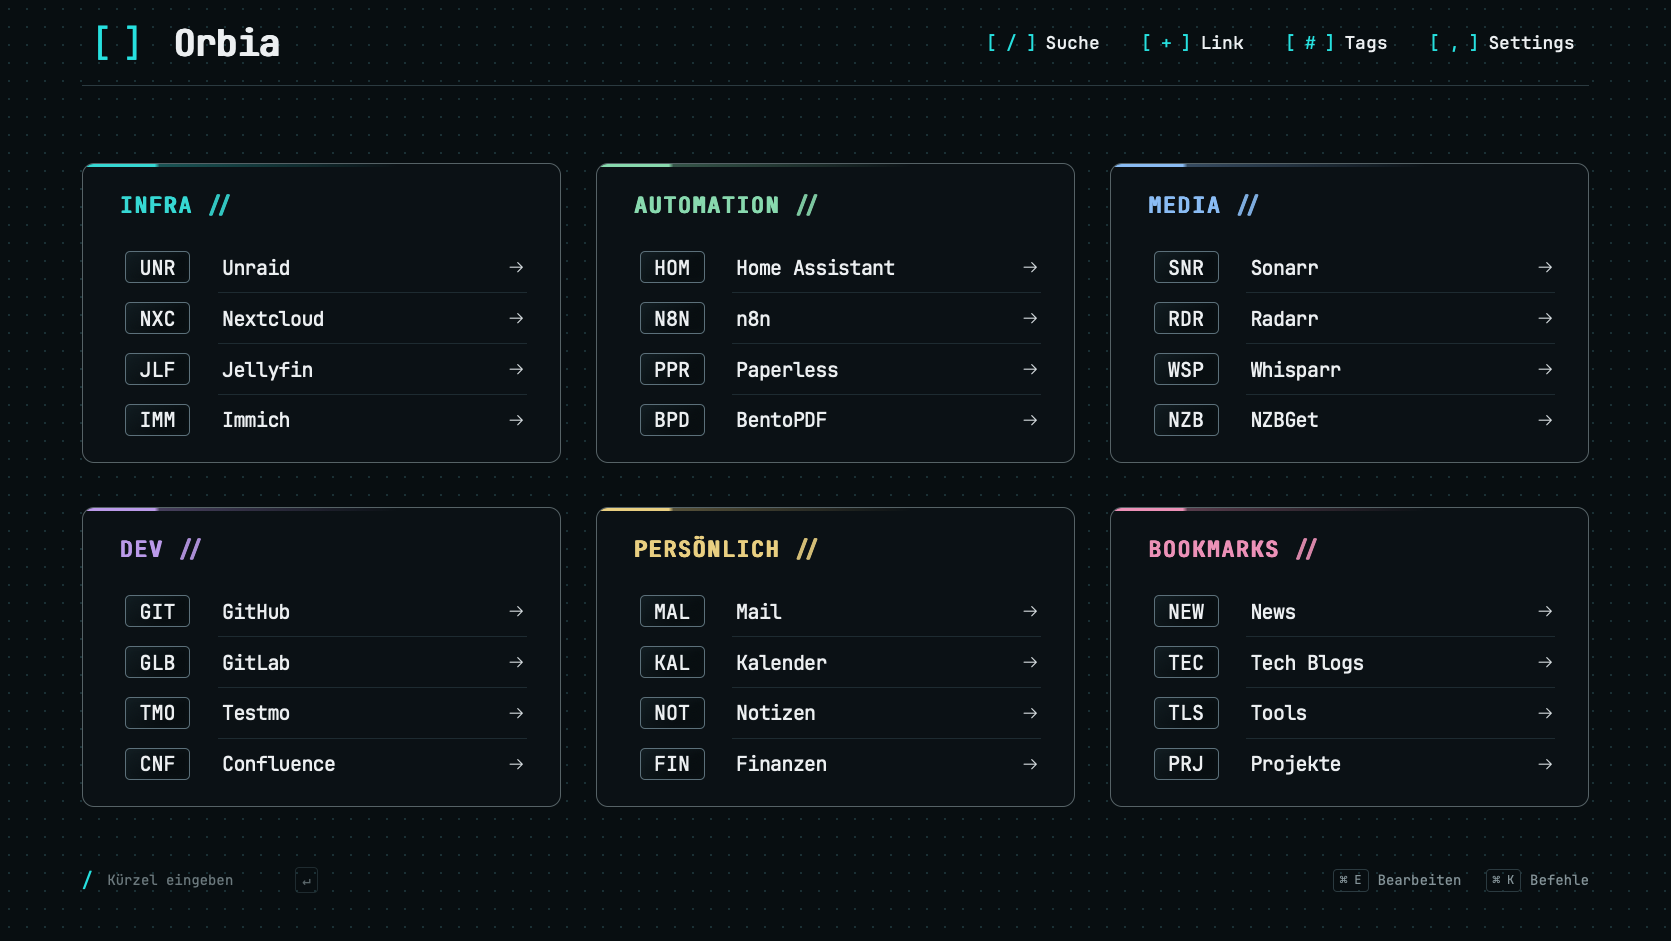
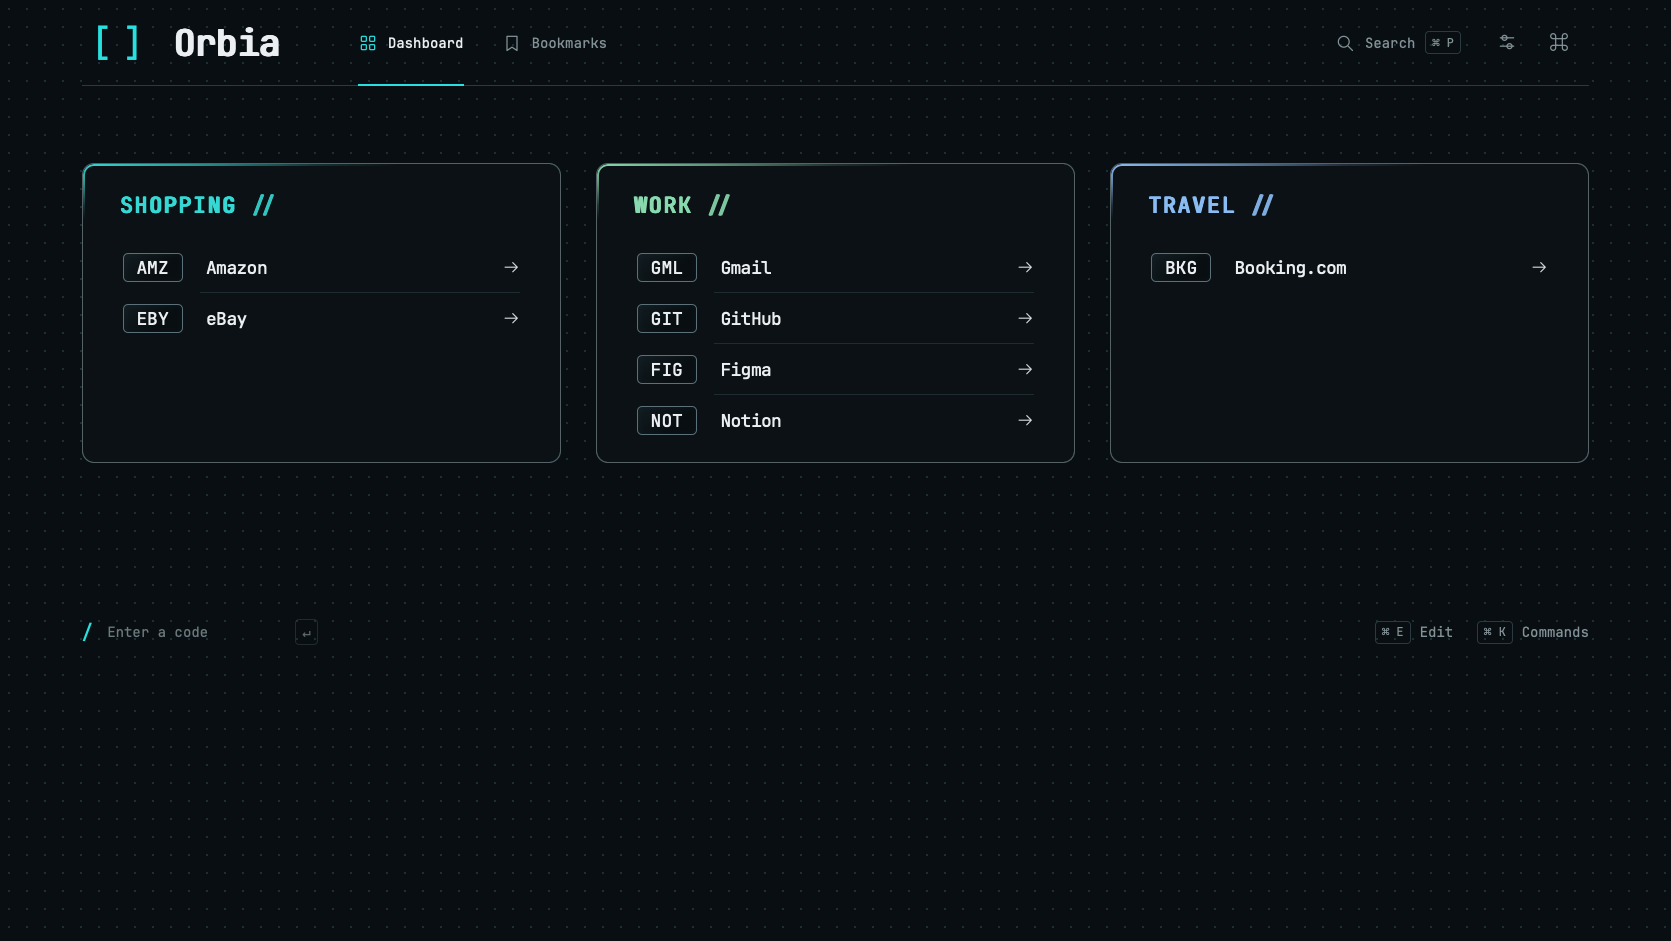
feat: update default dashboard with new quicklinks and improve localization in README

diff --git a/internal/app/dashboard.go b/internal/app/dashboard.go
@@ -132,19 +132,20 @@ func (s *Store) SaveDashboard(d Dashboard) (Dashboard, error) {
 	return d, e
 }
 func defaultDashboard() Dashboard {
-	groups := []Group{}
-	for i, v := range []struct {
-		name, color string
-		links       []Quicklink
-	}{
-		{"Infra", "#36d8d3", []Quicklink{{"unr", "Unraid", "UNR", "http://tower/"}, {"nxc", "Nextcloud", "NXC", "http://nextcloud.local/"}, {"jlf", "Jellyfin", "JLF", "http://jellyfin.local/"}, {"imm", "Immich", "IMM", "http://immich.local/"}}},
-		{"Automation", "#88d9ae", []Quicklink{{"hom", "Home Assistant", "HOM", "http://homeassistant.local:8123/"}, {"n8n", "n8n", "N8N", "http://n8n.local/"}, {"ppr", "Paperless", "PPR", "http://paperless.local/"}, {"bpd", "BentoPDF", "BPD", "https://bentopdf.com/"}}},
-		{"Media", "#8abcf4", []Quicklink{{"snr", "Sonarr", "SNR", "http://sonarr.local/"}, {"rdr", "Radarr", "RDR", "http://radarr.local/"}, {"wsp", "Whisparr", "WSP", "http://whisparr.local/"}, {"nzb", "NZBGet", "NZB", "http://nzbget.local/"}}},
-		{"Dev", "#bb9ae9", []Quicklink{{"git", "GitHub", "GIT", "https://github.com/"}, {"glb", "GitLab", "GLB", "https://gitlab.com/"}, {"tmo", "Testmo", "TMO", "https://www.testmo.com/"}, {"cnf", "Confluence", "CNF", "https://www.atlassian.com/software/confluence"}}},
-		{"Persönlich", "#e9cf81", []Quicklink{{"mal", "Mail", "MAL", "https://mail.google.com/"}, {"kal", "Kalender", "KAL", "https://calendar.google.com/"}, {"not", "Notizen", "NOT", "https://www.notion.so/"}, {"fin", "Finanzen", "FIN", "https://banking.example.com/"}}},
-		{"Bookmarks", "#ec91b7", []Quicklink{{"new", "News", "NEW", "https://news.ycombinator.com/"}, {"tec", "Tech Blogs", "TEC", "https://lobste.rs/"}, {"tls", "Tools", "TLS", "https://www.privacytools.io/"}, {"prj", "Projekte", "PRJ", "https://github.com/dashboard"}}},
-	} {
-		groups = append(groups, Group{ID: []string{"infra", "automation", "media", "dev", "personal", "bookmarks"}[i], Name: v.name, Color: v.color, Links: v.links})
+	groups := []Group{
+		{ID: "shopping", Name: "Shopping", Color: "#36d8d3", Links: []Quicklink{
+			{"amz", "Amazon", "AMZ", "https://www.amazon.com/"},
+			{"eby", "eBay", "EBY", "https://www.ebay.com/"},
+		}},
+		{ID: "work", Name: "Work", Color: "#88d9ae", Links: []Quicklink{
+			{"gml", "Gmail", "GML", "https://mail.google.com/"},
+			{"git", "GitHub", "GIT", "https://github.com/"},
+			{"fig", "Figma", "FIG", "https://www.figma.com/"},
+			{"not", "Notion", "NOT", "https://www.notion.com/"},
+		}},
+		{ID: "travel", Name: "Travel", Color: "#8abcf4", Links: []Quicklink{
+			{"bkg", "Booking.com", "BKG", "https://www.booking.com/"},
+		}},
 	}
-	return Dashboard{Revision: 1, Pages: []Page{{ID: "home", Name: "Zuhause", Groups: groups}}}
+	return Dashboard{Revision: 1, Pages: []Page{{ID: "home", Name: "Home", Groups: groups}}}
 }

diff --git a/internal/app/store.go b/internal/app/store.go
@@ -479,12 +479,12 @@ func (s *Store) SeedBookmarks() error {
 			return nil
 		}
 		for i, v := range []struct{ url, title, desc, tags string }{
-			{"https://go.dev/doc/", "Go documentation", "Die Werkzeuge für schnelle, einfache Software.", "dev,go,docs"},
-			{"https://maxroll.gg/d4", "Diablo IV · Builds & Loot", "Builds, Loot und Guides für die nächste Season.", "games,arpg,diablo"},
-			{"https://www.poewiki.net/", "Path of Exile Wiki", "Mechaniken, Loot und Wissen für Wraeclast.", "games,arpg,poe"},
-			{"https://developer.mozilla.org/", "MDN Web Docs", "Das Nachschlagewerk für das offene Web.", "dev,web,docs"},
-			{"https://www.figma.com/community", "Figma Community", "Ideen und Ressourcen für digitale Interfaces.", "design,inspiration"},
-			{"https://linkding.link/", "Linkding", "Bookmarks behalten. Wissen wiederfinden.", "tools,selfhosted"},
+			{"https://go.dev/doc/", "Go Documentation", "Tutorials, language guides, and tools for building Go applications.", "dev,go,docs"},
+			{"https://maxroll.gg/d4", "Diablo IV · Builds & Loot", "Build guides, loot tips, and advice for the next season.", "games,arpg,diablo"},
+			{"https://www.poewiki.net/", "Path of Exile Wiki", "Game mechanics, loot tables, and lore from Wraeclast.", "games,arpg,poe"},
+			{"https://developer.mozilla.org/", "MDN Web Docs", "Reference docs and tutorials for HTML, CSS, and JavaScript.", "dev,web,docs"},
+			{"https://www.figma.com/community", "Figma Community", "Templates, plugins, and resources shared by other designers.", "design,inspiration"},
+			{"https://linkding.link/", "Linkding", "A self-hosted bookmark manager with browser extensions.", "tools,selfhosted"},
 		} {
 			tags := strings.Split(v.tags, ",")
 			if _, e = saveBookmark(c, 0, BookmarkInput{URL: &v.url, Title: &v.title, Description: &v.desc, Tags: &tags, Added: ptr(time.Now().UTC().Add(-time.Duration(i) * time.Hour).Format(time.RFC3339Nano))}, false); e != nil {

diff --git a/internal/app/contract_test.go b/internal/app/contract_test.go
@@ -220,18 +220,18 @@ func TestDashboardValidationAndRevision(t *testing.T) {
 	if e != nil {
 		t.Fatal(e)
 	}
-	if len(original.Pages[0].Groups) != 6 {
-		t.Fatal("default dashboard must match six-group reference")
+	if e := validateDashboard(original); e != nil {
+		t.Fatalf("invalid default dashboard: %v", e)
 	}
 	changed := original
-	changed.Pages = append(changed.Pages, Page{ID: "work", Name: "Arbeit", Groups: []Group{}})
+	changed.Pages = append(changed.Pages, Page{ID: "second-page", Name: "Arbeit", Groups: []Group{}})
 	data, _ := json.Marshal(changed)
 	w := request(s, "PUT", "/api/orbia/dashboard", string(data), true)
 	expectStatus(t, w, 200)
 	w = request(s, "PUT", "/api/orbia/dashboard", string(data), true)
 	expectStatus(t, w, 409)
 	d, _ := store.Dashboard()
-	d.Pages[0].Groups[0].Links[0].Code = "IMM"
+	d.Pages[0].Groups[0].Links[0].Code = d.Pages[0].Groups[0].Links[1].Code
 	data, _ = json.Marshal(d)
 	expectStatus(t, request(s, "PUT", "/api/orbia/dashboard", string(data), true), 400)
 	d, _ = store.Dashboard()

diff --git a/README.md b/README.md
@@ -2,7 +2,7 @@
 
 Orbia is a self-hosted keyboard launcher and bookmark library for one person. The dashboard opens quicklinks by three-character code. The library searches saved titles, URLs, descriptions and notes, with exact tag filters. Both use the same Go process and SQLite database. The browser loads HTML, CSS, JavaScript and JetBrains Mono from your server.
 
-![Orbia quick dashboard with six color-coded groups](docs/dashboard.png)
+![Orbia quick dashboard with color-coded quicklink groups](docs/dashboard.png)
 
 ## Run on Unraid
 
@@ -17,7 +17,7 @@ docker compose up -d --build --wait
 docker compose ps
 ```
 
-Open `http://<unraid-host>:8080`. The six initial groups contain the links from the reference screenshot. Addresses such as `http://immich.local/` are examples. Use **Cmd/Ctrl+E** to configure them. The bookmark library starts empty. Set `ORBIA_SEED_DEMO=true` for a first launch with six example bookmarks, then switch it off to keep an emptied library empty on restart.
+Open `http://<unraid-host>:8080`. New databases start with a **Home** dashboard linking to Amazon, eBay, Gmail, GitHub, Booking.com, Figma, and Notion. Use **Cmd/Ctrl+E** to edit the quicklinks. The bookmark library starts empty. Set `ORBIA_SEED_DEMO=true` to populate an empty library with six English-language example bookmarks, then switch it off to keep an emptied library empty on restart. Upgrades preserve your saved dashboard and bookmarks.
 
 For a local Docker installation, use `ORBIA_DATA_DIR=./data`, set `PUID` and `PGID` to the owner of that directory, and bind to `127.0.0.1`. The container runs as that user with a read-only root filesystem. Compose persists the database under `/data`. The HTTP healthcheck uses `/healthz`.
 
